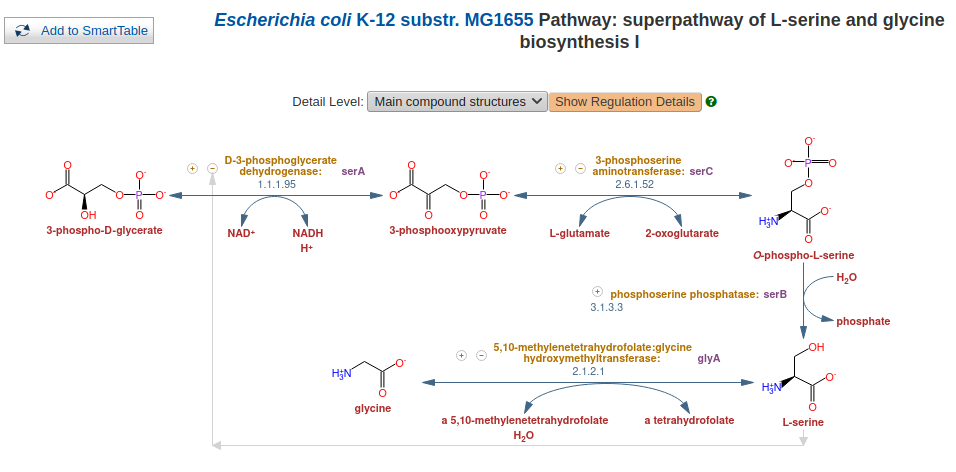
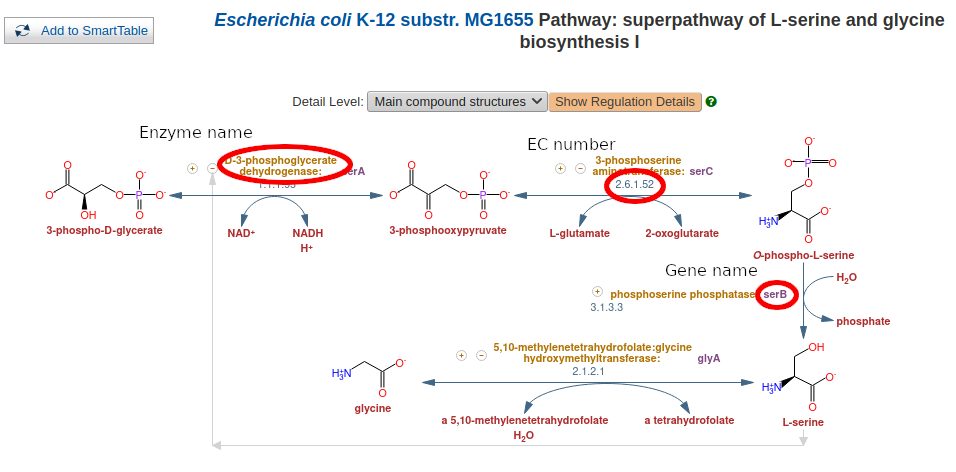
BioCyc

diff --git a/docs/serine_glycine_tutorial.md b/docs/serine_glycine_tutorial.md
@@ -2,6 +2,26 @@
 
 ## Tutorial: Proteins in L-serine and L-glycine synthesis
 
+The aim with this tutorial is to show you how to find proteins that you can search for as markers of a certain metabolism.
+I will exemplify with synthesis of two small amino acids that are related to each other in how they're produced: L-serine and L-glycine.
+
+Briefly, I will show how to find information about a pathway, identify enzymes that are good markers for the pathway and find search tools that you can apply to nucleotide sequence data such as metagenomes or metatranscriptomes.
+
+### Pathway databases
+
+The first step will be to find information about the metabolic pathway used to synthesize the two amino acids.
+Metabolic pathway information can be found in two online databases: [Kyoto Encyclopedia of Genes and Genomes (KEGG)](https://www.kegg.jp) and the [BioCyc Database Collection](https://biocyc.org).
+I'm going to use the latter, but I encourage you to also check out KEGG.
+
+BioCyc is a collection of organism specific metabolic and genomic databases.
+This means you choose which organism you want to work with (click the link "change organism database" in the top right corner) and then get access to information about its metabolic capacity (plus many more things!).
+Different organisms have different metabolic capacities and may also differ in how pathways are built.
+Besides the organism specific databases, [MetaCyc](https://metacyc.org) is a collection of *all* pathways.
+
+To make things clearer, I will use the *E. coli* K-12 database [EcoCyc](https://ecocyc.org) in this tutorial, even though MetaCyc would give us a more complete picture.
+
+#### Finding the L-serine and L-glycine synthesis pathway in *E. coli*
+
 * Open [EcoCyc](https://ecocyc.org)
 
 * Search for "glycine" (top right corner)
@@ -11,3 +31,18 @@
 * Change "Detail level" to "Main compound structures"
 
 ![Serine/Glycine superpathway](img/ecocyc_serine_glycine_main_strcts.png)
+
+In the above pathway you can see how L-serine is synthesized from 3-phospho-D-glycerate in three steps.
+A key step is when the amino group in L-serine is donated from a glutamate in step two.
+After L-serine is synthesized, L-glycine is synthesized by extraction of the side chain, making it four steps for the total pathway.
+
+I have marked three key concepts with red ellipses: The enzyme/protein name, the gene name and the Enzyme Commission (EC) number.
+They will be important when we start searching for the enzymes and proteins.
+
+It is a bit of an art to study a pathway and identify which steps and enzymes might be good candidates as markers for the pathway, as, in many cases, different pathways cross each other so that reactions and compounds participate in many pathways.
+Moreover, reactions in pathways do not necessarily run in only one direction but are equilibrium reactions whose direction are determined by the concentrations of compounds on either side of the reaction.
+In the L-serine and L-glycine pathway as described in EcoCyc, you can see that all arrows except one have arrowheads on both sides, indicating they're equilibrium reactions.
+
+### Protein databases
+
+### Protein profile databases
